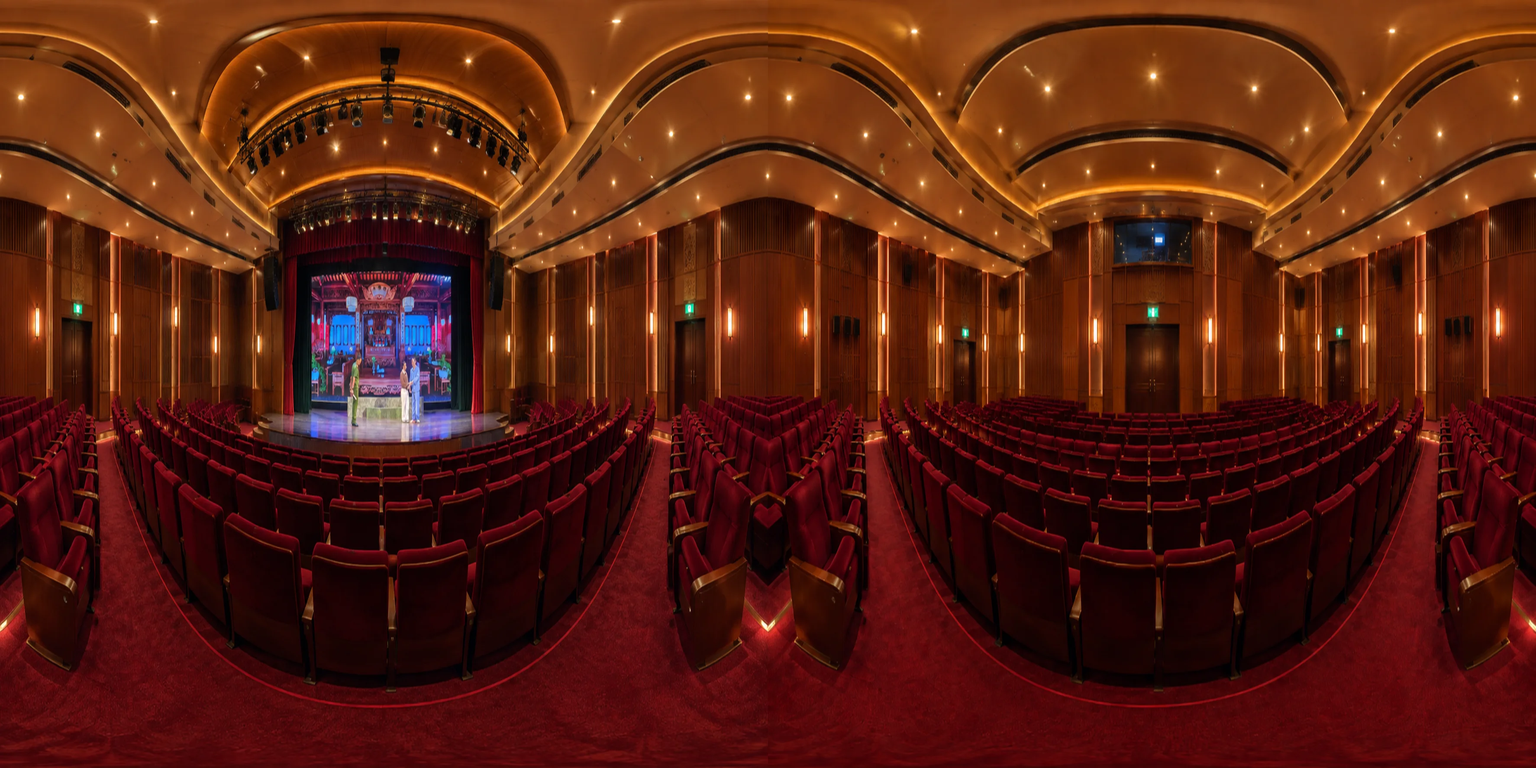
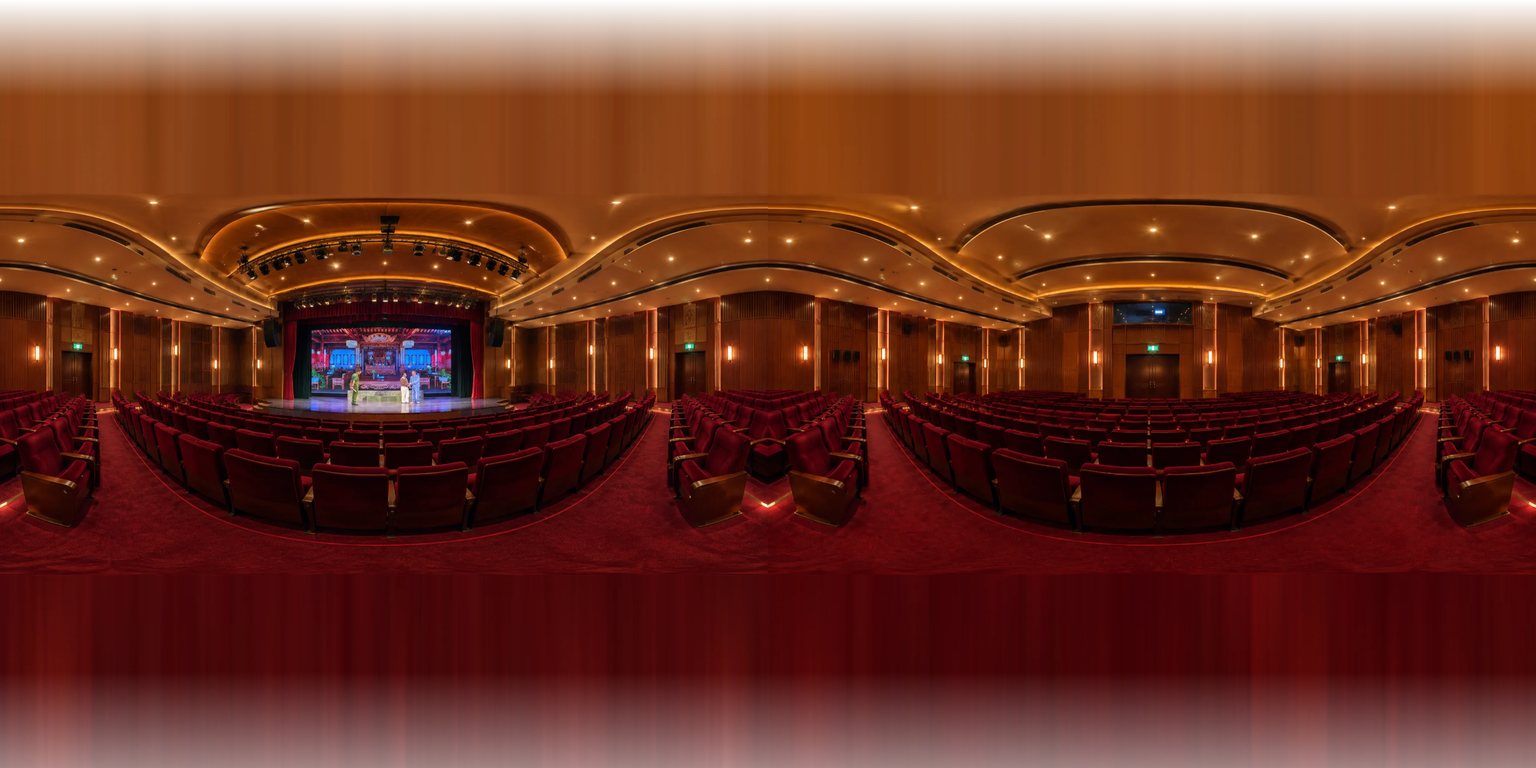
Sửa ảnh khán phòng bị kéo cao gấp đôi
Mỗi tệp nửa là 180 độ ngang nhưng chỉ 90 độ DỌC — tỉ lệ 2:1 của nó vốn đã
đúng. Lần trước tôi kéo cao gấp đôi cho đầy khung 360x180, thành ra cảnh cao
vống lên: đèn tường dài ngoẵng, tường cao bất thường, ghế tụt hết xuống mép
dưới khung nhìn.

Giờ đặt mỗi nửa vào đúng nửa bề ngang VÀ nửa chiều cao, canh giữa theo chiều
dọc. Phần trần và sàn còn trống thì vá bằng cách kéo dài hàng điểm ảnh trên
cùng và dưới cùng, để nhìn lên nhìn xuống không thấy khoảng trong suốt.

Ảnh ra vẫn 3548x1774, sân khấu vẫn ở 90 độ. Ảnh lên ?v=6.

diff --git a/styles.css b/styles.css
@@ -1647,7 +1647,7 @@ kbd {
    ảnh cũ mãi, tải lại trang cũng vô ích. Đổi ?v= là đổi đường dẫn, trình
    duyệt coi như tệp khác và tải mới. Đây là lý do tấm 360 gập đôi đầu tiên
    còn bám lại sau khi đã thay bằng tấm 360 thật. */
-.pano[data-scene="khan-phong"] { --pano: url("./anh/360/khan-phong.webp?v=5"); }
+.pano[data-scene="khan-phong"] { --pano: url("./anh/360/khan-phong.webp?v=6"); }
 .pano[data-scene="san-khau"] {
   --pano:
     radial-gradient(30% 20% at 50% 46%, rgba(255, 224, 94, .55), transparent 70%),

diff --git a/tin-bai.html b/tin-bai.html
@@ -9,7 +9,7 @@
 <link rel="preconnect" href="https://fonts.googleapis.com" />
 <link rel="preconnect" href="https://fonts.gstatic.com" crossorigin />
 <link href="https://fonts.googleapis.com/css2?family=Be+Vietnam+Pro:wght@400;500;600;700&family=Noto+Serif:wght@400;700;900&family=Playfair+Display:wght@700;900&display=swap" rel="stylesheet" />
-<link rel="stylesheet" href="./styles.css?v=66" />
+<link rel="stylesheet" href="./styles.css?v=67" />
 <link rel="icon" type="image/png" href="./anh/logo.png" />
 <meta name="robots" content="noindex" />
 </head>

diff --git a/index.html b/index.html
@@ -13,7 +13,7 @@
 <link rel="preconnect" href="https://fonts.googleapis.com" />
 <link rel="preconnect" href="https://fonts.gstatic.com" crossorigin />
 <link href="https://fonts.googleapis.com/css2?family=Be+Vietnam+Pro:wght@400;500;600;700&family=Noto+Serif:wght@400;700;900&family=Playfair+Display:wght@700;900&display=swap" rel="stylesheet" />
-<link rel="stylesheet" href="./styles.css?v=66" />
+<link rel="stylesheet" href="./styles.css?v=67" />
 <link rel="icon" type="image/png" href="./anh/logo.png" />
 </head>
 <body>

diff --git a/dat-cho.html b/dat-cho.html
@@ -9,7 +9,7 @@
 <link rel="preconnect" href="https://fonts.googleapis.com" />
 <link rel="preconnect" href="https://fonts.gstatic.com" crossorigin />
 <link href="https://fonts.googleapis.com/css2?family=Be+Vietnam+Pro:wght@400;500;600;700&family=Noto+Serif:wght@400;700;900&family=Playfair+Display:wght@700;900&display=swap" rel="stylesheet" />
-<link rel="stylesheet" href="./styles.css?v=66" />
+<link rel="stylesheet" href="./styles.css?v=67" />
 <link rel="icon" type="image/png" href="./anh/logo.png" />
 </head>
 <body>

diff --git a/gioi-thieu.html b/gioi-thieu.html
@@ -9,7 +9,7 @@
 <link rel="preconnect" href="https://fonts.googleapis.com" />
 <link rel="preconnect" href="https://fonts.gstatic.com" crossorigin />
 <link href="https://fonts.googleapis.com/css2?family=Be+Vietnam+Pro:wght@400;500;600;700&family=Noto+Serif:wght@400;700;900&family=Playfair+Display:wght@700;900&display=swap" rel="stylesheet" />
-<link rel="stylesheet" href="./styles.css?v=66" />
+<link rel="stylesheet" href="./styles.css?v=67" />
 <link rel="icon" type="image/png" href="./anh/logo.png" />
 </head>
 <body>

diff --git a/lich-su.html b/lich-su.html
@@ -9,7 +9,7 @@
 <link rel="preconnect" href="https://fonts.googleapis.com" />
 <link rel="preconnect" href="https://fonts.gstatic.com" crossorigin />
 <link href="https://fonts.googleapis.com/css2?family=Be+Vietnam+Pro:wght@400;500;600;700&family=Noto+Serif:wght@400;700;900&family=Playfair+Display:wght@700;900&display=swap" rel="stylesheet" />
-<link rel="stylesheet" href="./styles.css?v=66" />
+<link rel="stylesheet" href="./styles.css?v=67" />
 <link rel="icon" type="image/png" href="./anh/logo.png" />
 </head>
 <body>

diff --git a/nghe-si.html b/nghe-si.html
@@ -9,7 +9,7 @@
 <link rel="preconnect" href="https://fonts.googleapis.com" />
 <link rel="preconnect" href="https://fonts.gstatic.com" crossorigin />
 <link href="https://fonts.googleapis.com/css2?family=Be+Vietnam+Pro:wght@400;500;600;700&family=Noto+Serif:wght@400;700;900&family=Playfair+Display:wght@700;900&display=swap" rel="stylesheet" />
-<link rel="stylesheet" href="./styles.css?v=66" />
+<link rel="stylesheet" href="./styles.css?v=67" />
 <link rel="icon" type="image/png" href="./anh/logo.png" />
 </head>
 <body>

diff --git a/tin-tuc.html b/tin-tuc.html
@@ -9,7 +9,7 @@
 <link rel="preconnect" href="https://fonts.googleapis.com" />
 <link rel="preconnect" href="https://fonts.gstatic.com" crossorigin />
 <link href="https://fonts.googleapis.com/css2?family=Be+Vietnam+Pro:wght@400;500;600;700&family=Noto+Serif:wght@400;700;900&family=Playfair+Display:wght@700;900&display=swap" rel="stylesheet" />
-<link rel="stylesheet" href="./styles.css?v=66" />
+<link rel="stylesheet" href="./styles.css?v=67" />
 <link rel="icon" type="image/png" href="./anh/logo.png" />
 </head>
 <body>

diff --git a/trai-nghiem.html b/trai-nghiem.html
@@ -9,7 +9,7 @@
 <link rel="preconnect" href="https://fonts.googleapis.com" />
 <link rel="preconnect" href="https://fonts.gstatic.com" crossorigin />
 <link href="https://fonts.googleapis.com/css2?family=Be+Vietnam+Pro:wght@400;500;600;700&family=Noto+Serif:wght@400;700;900&family=Playfair+Display:wght@700;900&display=swap" rel="stylesheet" />
-<link rel="stylesheet" href="./styles.css?v=66" />
+<link rel="stylesheet" href="./styles.css?v=67" />
 <link rel="icon" type="image/png" href="./anh/logo.png" />
 </head>
 <body>

diff --git a/vo-dien.html b/vo-dien.html
@@ -9,7 +9,7 @@
 <link rel="preconnect" href="https://fonts.googleapis.com" />
 <link rel="preconnect" href="https://fonts.gstatic.com" crossorigin />
 <link href="https://fonts.googleapis.com/css2?family=Be+Vietnam+Pro:wght@400;500;600;700&family=Noto+Serif:wght@400;700;900&family=Playfair+Display:wght@700;900&display=swap" rel="stylesheet" />
-<link rel="stylesheet" href="./styles.css?v=66" />
+<link rel="stylesheet" href="./styles.css?v=67" />
 <link rel="icon" type="image/png" href="./anh/logo.png" />
 </head>
 <body>

diff --git a/anh/360/HUONG-DAN.md b/anh/360/HUONG-DAN.md
@@ -170,9 +170,15 @@ Tấm khán phòng đang chạy được nối từ hai tệp, **mỗi tệp là
 - `khán phòng mặt trước.png` — 180° có sân khấu ở chính giữa
 - `khán phòng mặt sau.png` — 180° có tường cuối phòng ở chính giữa
 
-Nối thẳng: nửa trước chiếm 0-180° của ảnh ra, nửa sau chiếm 180-360°. Kéo cao
-gấp đôi để ảnh ra đúng 2:1. **Không hoà mờ, không căn tâm gì cả** — hai chỗ nối
-rơi đúng vào tường hai bên, vốn na ná nhau, nên không lộ vết.
+Nối thẳng: nửa trước chiếm 0-180° của ảnh ra, nửa sau chiếm 180-360°. **Không
+hoà mờ, không căn tâm gì cả** — hai chỗ nối rơi đúng vào tường hai bên, vốn na
+ná nhau, nên không lộ vết.
+
+**ĐỪNG KÉO CAO CHO ĐẦY KHUNG.** Mỗi tệp nửa là 180° ngang × **90° dọc**, tỉ lệ
+2:1 của nó vốn đã đúng. Ảnh ra trải 360° ngang × 180° dọc, nên nửa đó chỉ chiếm
+**nửa bề ngang VÀ nửa chiều cao**, đặt giữa theo chiều dọc; phần trên dưới vá
+bằng cách kéo dài hàng điểm ảnh trên cùng và dưới cùng. Kéo cho đầy khung là
+cảnh cao vống lên gấp đôi: đèn tường dài ngoẵng, ghế tụt hết xuống mép dưới.
 
 Kết quả: 3548 × 1774, mối nối trái-phải 5,2/255, sân khấu ở **90°** (nên
 `data-yaw="90"`), tường cuối ở 270°.
